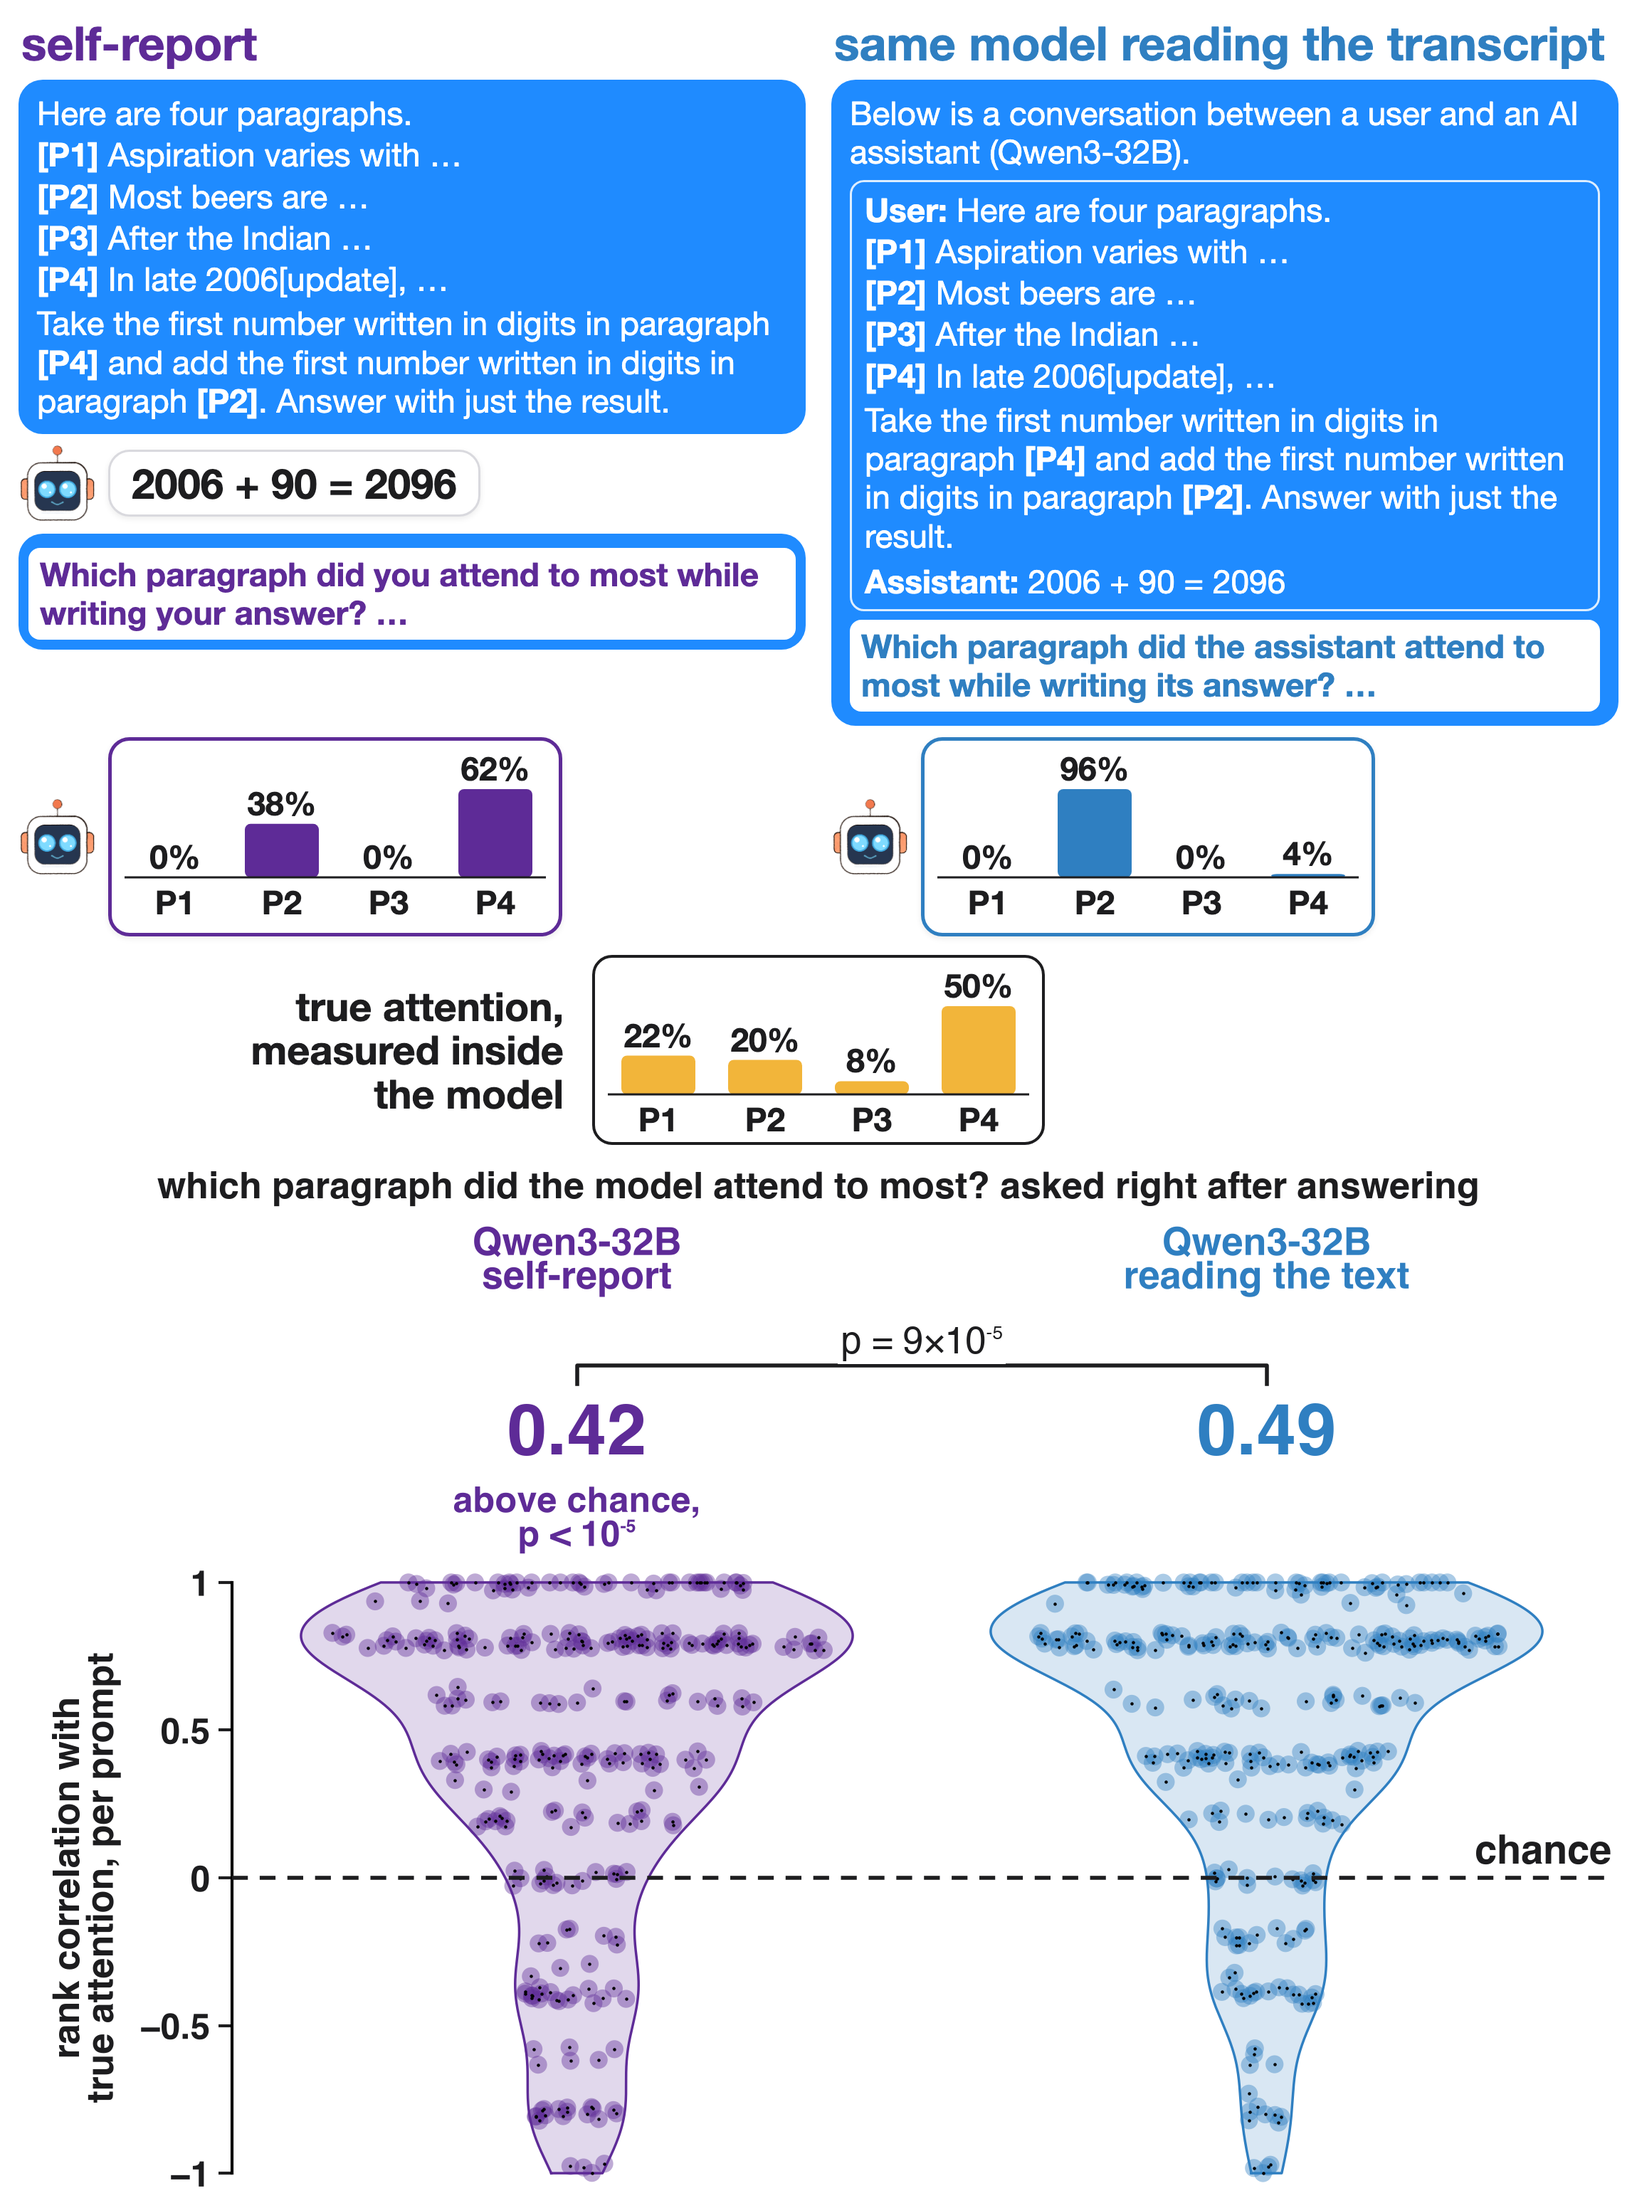
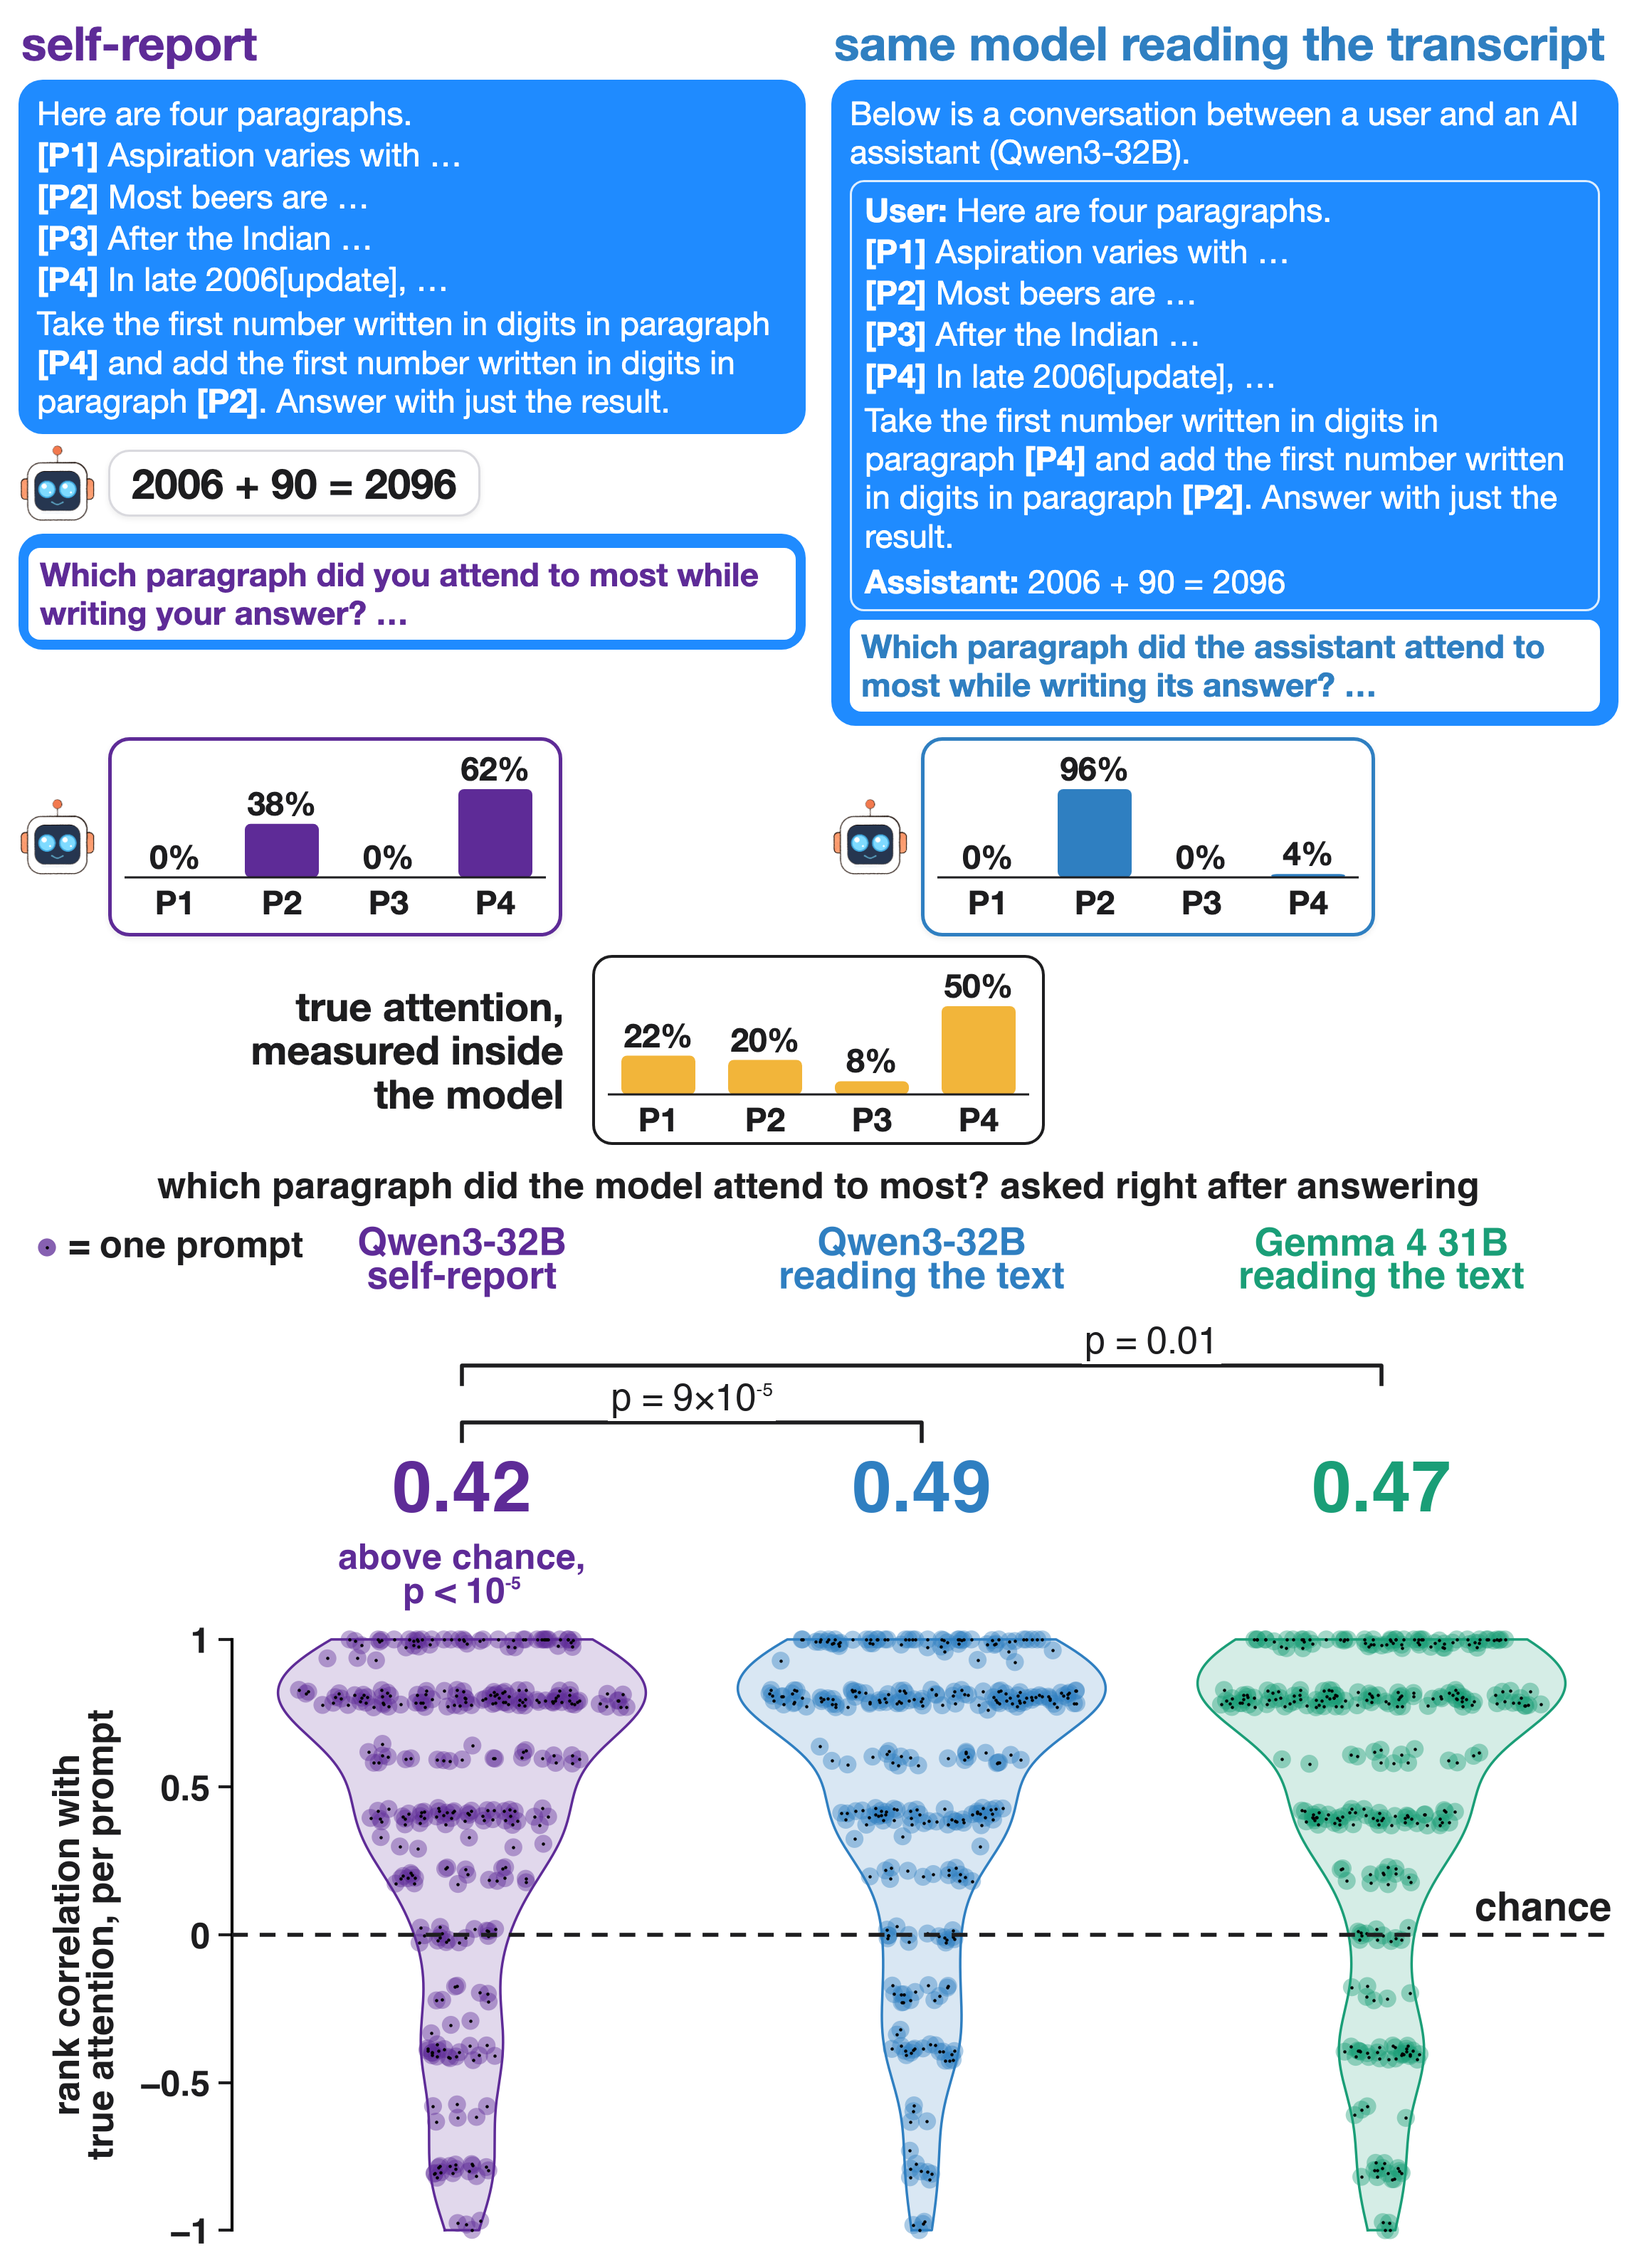
monitor fig: third violin, Gemma 4 31B reading the same 300 transcripts (reader_xmodel_gemma4[_scored].json, monitor/reader_xmodel.py), p bracket to self (p = .01); 'one prompt' dot key restored top left of the violin panel; FIGURES.md mentions both readers

diff --git a/figures/monitor_logprob_fig.py b/figures/monitor_logprob_fig.py
@@ -6,8 +6,8 @@ attention from answer tokens to each paragraph, per token of the paragraph, aver
 four values' total). Bottom left: per-prompt Spearman between report score and true attention, asked right after answering, self vs
 reader, one violin under each setup; big number = mean; p = paired two-sided sign-flip test of self vs reader (200,000 flips).
 (The held-out gain over every wording, logprob.py "gain_all", is reported in LOGPROB.md, not drawn.)
-Third violin: a model of another family reading the same transcript (monitor/reader_xmodel.py, results/monitor_inorder/reader_xmodel_scored.json).
-usage: monitor_logprob_fig.py results/monitor_inorder/logprob_results.json OUT.png results/monitor_inorder/reader_xmodel_scored.json SHARD_DIR [SHARD_DIR ...]"""
+Third violin: a model of another family reading the same transcript (monitor/reader_xmodel.py, results/monitor_inorder/reader_xmodel_gemma4_scored.json).
+usage: monitor_logprob_fig.py results/monitor_inorder/logprob_results.json OUT.png results/monitor_inorder/reader_xmodel_gemma4_scored.json SHARD_DIR [SHARD_DIR ...]"""
 import json, os, sys, html, base64, subprocess
 import numpy as np, matplotlib
 matplotlib.use("Agg"); import matplotlib.pyplot as plt
@@ -100,7 +100,7 @@ ARMS = [("self", PURPLE, "Qwen3-32B\nself-report", PP["after|most"]["self"]), ("
         ]
 if X:
     assert np.allclose(X["perprompt"]["self"], PP["after|most"]["self"]) and np.allclose(X["perprompt"]["qwen_reader"], PP["after|most"]["reader"])
-    ARMS.append(("x", GREEN, X["model"].split("/")[-1].replace("-it", "").replace("gemma", "Gemma") + "\nreading the text", X["perprompt"]["x_reader"]))
+    ARMS.append(("x", GREEN, {"google/gemma-4-31B-it": "Gemma 4 31B"}.get(X["model"], X["model"].split("/")[-1]) + "\nreading the text", X["perprompt"]["x_reader"]))
 XC = [0.5 + j for j in range(len(ARMS))]; XL = (0.0, float(len(ARMS)))
 X2P = lambda x: AXL + AXW * (x - XL[0]) / (XL[1] - XL[0])          # data x -> page px
 for j, (who, col, name, z) in enumerate(ARMS):
@@ -127,6 +127,9 @@ for j, yb, ptxt in [(1, Y_BR1, PTXT), (2, Y_BR2, PTXT2)][:len(ARMS) - 1]:
     xl, xr = X2P(XC[0]), X2P(XC[j])
     kx.plot([xl, xl, xr, xr], [yb + 26, yb, yb, yb + 26], color=INK, lw=4)
     kx.text((xl + xr) / 2 + (0 if j == 1 else (xr - xl) / 4), yb - 6, ptxt, ha="center", va="bottom", fontsize=px(52), color=INK, bbox=dict(fc="white", ec="none", pad=3))
+# key for the dots, top left of the violin panel, left of the first name
+KY = Y_NAME + 34; kx.scatter([40], [KY], s=330, color=PURPLE, alpha=0.75, edgecolors="none"); kx.scatter([40], [KY], s=5, color="black")
+kx.text(70, KY, "= one prompt", ha="left", va="center", fontsize=px(52), fontweight="bold", color=INK)
 kx.text(BW / 2, 6, "which paragraph did the model attend to most? asked right after answering", ha="center", va="top", fontsize=px(52), fontweight="bold", color=INK)
 VP = os.path.join(HERE, "monitor_logprob_bottom.png"); fig.savefig(VP, dpi=100, facecolor="white"); plt.close(fig)
 

diff --git a/FIGURES.md b/FIGURES.md
@@ -40,7 +40,7 @@ Each figure appears once. The control result (focus/ignore at layer 28) is the r
 
 ![](figures/layers.jpg)
 
-9. Qwen rates how much they attended to each paragraph; a separate model guesses the same from the text alone. Qwen tracks it, but no better than the reader.
+9. Qwen rates how much they attended to each paragraph; two readers guess the same from the transcript alone: Qwen reading it as someone else's chat, and Gemma 4 31B. Qwen's self-report tracks their attention, but both readers do slightly better.
 
 ![](figures/monitor_logprob.png)
 
